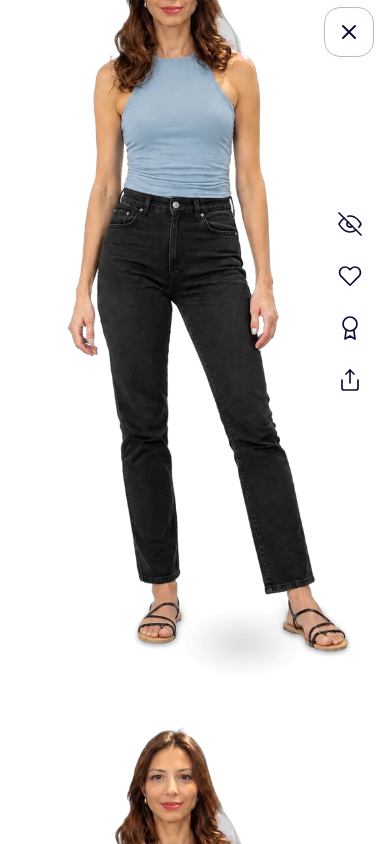
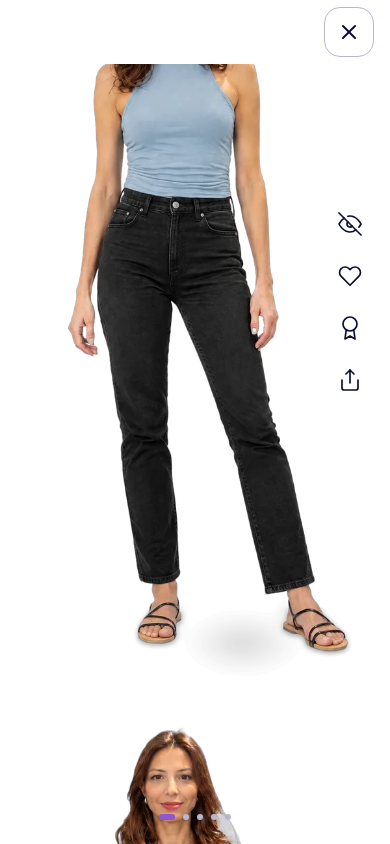
Full-screen look: the pager at the bottom (tap a dot to jump to that look), the swipe area clipped under the top bar so the look before no longer peeks out
Claude-Session: https://claude.ai/code/session_01LXePX2CGcJJuMxN8XNmb46

Changed region(s): [[0.2769, 0.0, 0.6462, 0.0924], [0.4, 0.955, 0.5231, 0.9858]]

diff --git a/src/mirror/LookViewer.jsx b/src/mirror/LookViewer.jsx
@@ -14,8 +14,8 @@ const DOUBLE_TAP_MS = 300;
 const PAGE_GAP = 16;     // px between a look and the next one while swiping
 const PAGE_MS = 320;
 
-export default function LookViewer({ look, prev = null, next = null, onStep = null, onClose, onHide, hiding, favorite, onFavorite, worn, onWear, toast = null }) {
-  const stage = useRef(null), frame = useRef(null), img = useRef(null), dialog = useRef(null), track = useRef(null);
+export default function LookViewer({ look, prev = null, next = null, onStep = null, pager = null, onClose, onHide, hiding, favorite, onFavorite, worn, onWear, toast = null }) {
+  const stage = useRef(null), frame = useRef(null), img = useRef(null), dialog = useRef(null), track = useRef(null), clip = useRef(null);
   const paging = useRef(false);
   const view = useRef({ s: 1, x: 0, y: 0 });
   const pointers = useRef(new Map());
@@ -39,10 +39,10 @@ export default function LookViewer({ look, prev = null, next = null, onStep = nu
   };
   // Measured on the frame (the look's box at scale 1, never transformed), so maths and CSS share one centre.
   const size = () => ({ w: frame.current?.clientWidth || 1, h: frame.current?.clientHeight || 1 });
-  // From the frame's centre, measured on the stage (it never moves): the frame itself slides while paging.
+  // From the look's centre, measured on the stage and the clip box (they never move): the frame itself slides while paging.
   const local = (e) => {
-    const r = stage.current.getBoundingClientRect(), f = frame.current;
-    return { x: e.clientX - r.left - (f.offsetLeft + f.offsetWidth / 2), y: e.clientY - r.top - (f.offsetTop + f.offsetHeight / 2) };
+    const r = stage.current.getBoundingClientRect(), c = clip.current;
+    return { x: e.clientX - r.left - (c.offsetLeft + c.offsetWidth / 2), y: e.clientY - r.top - (c.offsetTop + c.offsetHeight / 2) };
   };
 
   // Open: focus the dialog itself (not ×: Safari draws the focus ring on a button focused by script), stop the page behind from scrolling, and let the back gesture close the viewer.
@@ -145,11 +145,11 @@ export default function LookViewer({ look, prev = null, next = null, onStep = nu
     <div ref={dialog} tabIndex={-1} className="look-viewer" role="dialog" aria-modal="true" aria-label="Look, full screen. Pinch to zoom, swipe up or down for the next look.">
       <div className="look-viewer-stage" ref={stage} onPointerDown={onPointerDown} onPointerMove={onPointerMove}
         onPointerUp={onPointerUp} onPointerCancel={onPointerUp}>
-        <div className="look-viewer-track" ref={track}>
+        <div className="look-viewer-clip" ref={clip}><div className="look-viewer-track" ref={track}>
           {canPage && prev && <div className="look-viewer-frame is-prev" aria-hidden="true"><img src={prev.image} alt="" draggable={false} /></div>}
           <div className="look-viewer-frame" ref={frame}><img ref={img} src={look.image} alt={look.alt} draggable={false} /></div>
           {canPage && <div className="look-viewer-frame is-next" aria-hidden="true"><img src={next.image} alt="" draggable={false} /></div>}
-        </div>
+        </div></div>
       </div>
       <div className="ds-top-nav look-viewer-nav">
         <span className="ds-top-nav-side" />
@@ -161,6 +161,7 @@ export default function LookViewer({ look, prev = null, next = null, onStep = nu
         <button type="button" className="ds-icon-button is-large is-tertiary mirror-look-action" onClick={onShare} disabled={share !== 'ready'}
           aria-label={share === 'failed' ? 'Sharing isn’t available for this look' : 'Share this look'} title="Share"><Icon name="share" size={24} strokeWidth={5 / 3} /></button>
       </LookActions>
+      {pager && <div className="look-viewer-pager">{pager}</div>}
       {toast && <div className="look-viewer-toast">{toast}</div>}
     </div>
   );

diff --git a/src/mirror/mirror.css b/src/mirror/mirror.css
@@ -130,8 +130,10 @@
    the right side, 4px apart; the toast near the bottom. */
 .look-viewer { position: fixed; inset: 0; z-index: 100; outline: none; background: var(--bg-primary); animation: look-viewer-in .2s ease-out; }
 .look-viewer-stage { position: absolute; inset: 0; overflow: hidden; touch-action: none; user-select: none; -webkit-user-select: none; }
-.look-viewer-frame { position: absolute; inset: calc(64px + env(safe-area-inset-top)) 0 env(safe-area-inset-bottom); }
-/* Swipe up / down between looks: the one before waits above, the next below, 16px apart (LookViewer.jsx PAGE_GAP). */
+.look-viewer-clip { position: absolute; inset: calc(64px + env(safe-area-inset-top)) 0 env(safe-area-inset-bottom); overflow: hidden; }
+.look-viewer-frame { position: absolute; inset: 0; }
+/* Swipe up / down between looks: the one before waits above, the next below, 16px apart (LookViewer.jsx PAGE_GAP),
+   both out of sight until the finger brings them in (clipped to the look's area, under the top bar). */
 .look-viewer-track { position: absolute; inset: 0; will-change: transform; }
 .look-viewer-frame.is-prev { transform: translateY(calc(-100% - 16px)); }
 .look-viewer-frame.is-next { transform: translateY(calc(100% + 16px)); }
@@ -140,6 +142,7 @@
 .look-viewer-nav { position: absolute; z-index: 1; top: env(safe-area-inset-top); left: 0; right: 0; }
 .look-viewer-actions { position: absolute; z-index: 1; right: var(--space-md); top: calc(200px + env(safe-area-inset-top));
   flex-direction: column; }
+.look-viewer-pager { position: absolute; z-index: 1; left: 0; right: 0; bottom: calc(var(--space-lg) + env(safe-area-inset-bottom)); display: flex; justify-content: center; }
 .look-viewer-toast { position: absolute; z-index: 2; left: 0; right: 0; bottom: calc(var(--space-2xl) + env(safe-area-inset-bottom)); }
 .look-viewer-toast .mirror-toast { bottom: 0; }
 @media (min-width: 1024px) { .look-viewer-actions { top: 50%; right: var(--space-3xl); transform: translateY(-50%); } .look-viewer-nav { padding: var(--space-md) var(--space-2xl) 0; } }

diff --git a/src/mirror/DailyMirror.jsx b/src/mirror/DailyMirror.jsx
@@ -480,6 +480,14 @@ export default function DailyMirror({
       </main>
       {viewing && (
         <LookViewer look={viewing} prev={neighbour(-1)} next={neighbour(1)} onStep={(d) => { const i = wrap(outfits.findIndex((o) => o.id === viewing.id) + d, outfits.length); setViewing(outfits[i]); setIndex(i); }}
+          pager={count > 1 ? (
+            <div className={'ds-pager' + density} role="group" aria-label="Choose an outfit">
+              {outfits.map((outfit, i) => (
+                <button key={outfit.id} type="button" className="ds-pager-dot" aria-current={outfit.id === viewing.id} aria-label={`Outfit ${i + 1} of ${count}`}
+                  onClick={() => { setViewing(outfit); setIndex(i); }} />
+              ))}
+            </div>
+          ) : null}
           onClose={() => setViewing(null)} hiding={Boolean(leavingId)} favorite={isFav(viewing)} worn={isWorn(viewing)}
           onFavorite={() => toggleFavorite(viewing)} onWear={() => toggleWorn(viewing)}
           onHide={() => { const look = viewing; setViewing(null); if (history.state?.lookViewer) history.back(); hide(look); }} toast={<Toast key={toast?.id} toast={toast} />} />
